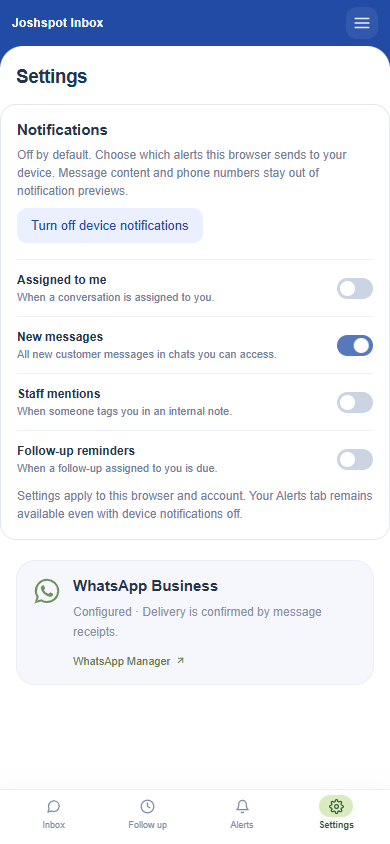
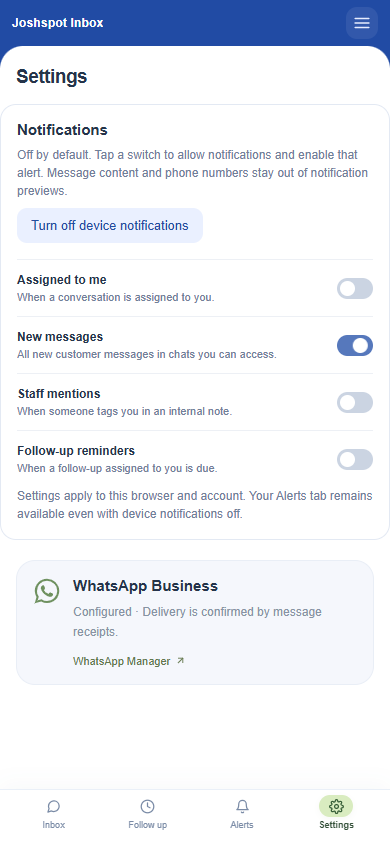
added joshspot inboxe

Changed region(s): [[0.0615, 0.154, 0.9538, 0.2464], [0.8923, 0.4005, 0.9538, 0.4313]]

diff --git a/components/inbox/InboxWorkspace.js b/components/inbox/InboxWorkspace.js
@@ -100,7 +100,7 @@ export default function InboxWorkspace({ session }) {
       <div className={s.railProfile} title={`${session.actor.name} · ${session.actor.role}`}>{initials(session.actor.name)}</div>
       <button className={s.connection} title={session.provider.configured ? 'WhatsApp configured' : 'WhatsApp not connected'} aria-label="Connection settings" onClick={() => { setView('settings'); setSelected(null); }}><i className={session.provider.configured ? s.ready : ''} /></button>
     </aside>
-    {view === 'notifications' ? <Notifications data={notifications} onMore={() => notificationLoad(notifications.next)} onOpen={(target) => { setTargetNote(target.message); setSelected(target.conversation); setView('inbox'); notificationLoad(); }} /> : view === 'templates' ? <section className={s.catalogue}><Templates session={session} /></section> : view === 'team' ? <section className={s.catalogue}><header className={s.sectionHeading}><h1>Team</h1><span>{session.staff.length} representatives</span></header><div className={s.teamGrid}>{session.staff.map((person) => <article key={person._id} className={s.teamPerson}><span className={s.avatar}>{initials(person.name)}</span><div><b>{person.name}</b><small>{person.role}{person._id === session.actor.id ? ' · You' : ''}</small></div></article>)}</div></section> : view === 'settings' ? <section className={s.catalogue}><header className={s.sectionHeading}><h1>Settings</h1></header><NotificationSettings /><div className={s.connectionCard}><FaWhatsapp /><div><h2>WhatsApp Business</h2><p>{session.provider.configured ? 'Configured · Delivery is confirmed by message receipts.' : 'Not connected'}</p>{!session.provider.configured && <p>{session.actor.admin ? 'Add the Meta credentials to your backend environment, then configure your webhook.' : 'Ask your administrator to connect WhatsApp.'}</p>}{session.actor.admin && session.provider.missing?.length > 0 && <ul>{session.provider.missing.map((name) => <li key={name}>{name}</li>)}</ul>}{session.actor.admin && <a href="https://business.facebook.com/wa/manage/home/" target="_blank" rel="noreferrer">WhatsApp Manager <FiArrowUpRight /></a>}{session.provider.failedJobs > 0 && <div className={s.error}>{session.provider.failedJobs} webhooks need attention.<button onClick={async () => { try { await inboxApi('/webhooks/retry', { method: 'POST', body: {} }); setNotice('Webhooks queued for another attempt'); } catch (err) { setError(err.message); } }}><FiRefreshCw />Retry processing</button></div>}{error && <div className={s.error} role="alert">{error}</div>}</div></div></section> : <>
+    {view === 'notifications' ? <Notifications data={notifications} onMore={() => notificationLoad(notifications.next)} onOpen={(target) => { setTargetNote(target.message); setSelected(target.conversation); setView('inbox'); notificationLoad(); }} /> : view === 'templates' ? <section className={s.catalogue}><Templates session={session} /></section> : view === 'team' ? <section className={s.catalogue}><header className={s.sectionHeading}><h1>Team</h1><span>{session.staff.length} representatives</span></header><div className={s.teamGrid}>{session.staff.map((person) => <article key={person._id} className={s.teamPerson}><span className={s.avatar}>{initials(person.name)}</span><div><b>{person.name}</b><small>{person.role}{person._id === session.actor.id ? ' · You' : ''}</small></div></article>)}</div></section> : view === 'settings' ? <section className={s.catalogue}><header className={s.sectionHeading}><h1>Settings</h1></header><NotificationSettings />{session.actor.admin&&<div className={s.connectionCard}><FaWhatsapp /><div><h2>WhatsApp Business</h2><p>{session.provider.configured ? 'Configured · Delivery is confirmed by message receipts.' : 'Not connected'}</p>{!session.provider.configured && <p>{session.actor.admin ? 'Add the Meta credentials to your backend environment, then configure your webhook.' : 'Ask your administrator to connect WhatsApp.'}</p>}{session.actor.admin && session.provider.missing?.length > 0 && <ul>{session.provider.missing.map((name) => <li key={name}>{name}</li>)}</ul>}{session.actor.admin && <a href="https://business.facebook.com/wa/manage/home/" target="_blank" rel="noreferrer">WhatsApp Manager <FiArrowUpRight /></a>}{session.provider.failedJobs > 0 && <div className={s.error}>{session.provider.failedJobs} webhooks need attention.<button onClick={async () => { try { await inboxApi('/webhooks/retry', { method: 'POST', body: {} }); setNotice('Webhooks queued for another attempt'); } catch (err) { setError(err.message); } }}><FiRefreshCw />Retry processing</button></div>}{error && <div className={s.error} role="alert">{error}</div>}</div></div>}</section> : <>
       <section className={s.listPanel} aria-label="Conversations">
         <header className={s.listHeader}>{view === 'contacts' ? <h1>Contacts</h1> : <div className={s.folderTabs} aria-label="Conversation views"><button disabled={!session.actor.admin && session.actor.role==='CSS'} aria-pressed={view !== 'mine'} onClick={() => navigate('inbox')}>{status ? status.replace('_', ' ') : view === 'mine' || view === 'inbox' ? (agent || Object.values(filters).some(Boolean) ? 'Filtered' : !session.actor.admin && session.actor.role==='CSS' ? 'Assigned to me' : 'All') : views.find(([key]) => key === view)?.[1] || 'All'}</button><span aria-hidden="true" /><button aria-pressed={view === 'mine'} onClick={() => navigate('mine')}>Mine</button></div>}<button className={s.iconButton} title="New conversation" aria-label="New conversation" onClick={() => setNewContact(true)}><FiPlus /></button></header>
         <div className={s.searchControls}><div className={s.search}><FiSearch /><input aria-label="Search conversations" placeholder="Search conversations…" value={query} onChange={(event) => setQuery(event.target.value)} />{query && <button className={`${s.iconButton} ${s.searchClear}`} aria-label="Clear search" onClick={() => setQuery('')}><FiX /></button>}</div><button className={`${s.iconButton} ${s.searchFilter}`} aria-label="Filter conversations" onClick={() => setMobileFilters(true)}><FiSliders />{(agent || status || Object.values(filters).some(Boolean) || !['inbox','contacts','mine'].includes(view)) && <i />}</button></div>

diff --git a/components/inbox/NotificationSettings.js b/components/inbox/NotificationSettings.js
@@ -21,20 +21,20 @@ export default function NotificationSettings(){
  }catch(e){if(active)setError(e.message)}finally{if(active)setBusy(false)}})();
  window.addEventListener('focus',refreshPermission);return()=>{active=false;window.removeEventListener('focus',refreshPermission)};
  },[]);
- const enable=async()=>{
+ const enable=async(key)=>{
   setBusy(true);setError('');try{
    const result=await Notification.requestPermission();setPermission(result);if(result!=='granted')return;
    const registration=await navigator.serviceWorker.register('/inbox-push-sw.js',{scope:'/crm-inbox'});
    await navigator.serviceWorker.ready;
    const bytes=Uint8Array.from(atob(config.publicKey.replace(/-/g,'+').replace(/_/g,'/')),c=>c.charCodeAt(0));
    const sub=await registration.pushManager.getSubscription()||await registration.pushManager.subscribe({userVisibleOnly:true,applicationServerKey:bytes});
-   await inboxApi('/push/subscription',{method:'PUT',body:{subscription:sub.toJSON(),preferences:defaults}});setSubscription(sub);setPreferences(defaults);
+   await inboxApi('/push/subscription',{method:'PUT',body:{subscription:sub.toJSON(),preferences:{...defaults,...(typeof key==='string'?{[key]:true}:{})}}});setSubscription(sub);setPreferences({...defaults,...(typeof key==='string'?{[key]:true}:{})});
   }catch(e){setError(e.message)}finally{setBusy(false)}
  };
- const toggle=async(key)=>{setBusy(true);setError('');const next={...preferences,[key]:!preferences[key]};try{await inboxApi('/push/subscription',{method:'PUT',body:{subscription:subscription.toJSON(),preferences:next}});setPreferences(next)}catch(e){setError(e.message)}finally{setBusy(false)}};
- return <div className={s.notificationSettings}><h2>Notifications</h2><p>Off by default. Choose which alerts this browser sends to your device. Message content and phone numbers stay out of notification previews.</p>
+ const toggle=async(key)=>{if(!subscription||permission!=='granted')return enable(key);setBusy(true);setError('');const next={...preferences,[key]:!preferences[key]};try{await inboxApi('/push/subscription',{method:'PUT',body:{subscription:subscription.toJSON(),preferences:next}});setPreferences(next)}catch(e){setError(e.message)}finally{setBusy(false)}};
+ return <div className={s.notificationSettings}><h2>Notifications</h2><p>Off by default. Tap a switch to allow notifications and enable that alert. Message content and phone numbers stay out of notification previews.</p>
  {error&&<p role="alert" className={s.error}>{error}</p>}
- {!available?<p>Push notifications are unavailable in this browser. On iPhone or iPad, add the site to your Home Screen and open it there.</p>:permission==='denied'?<p>Notifications are blocked. Allow them in your browser or device settings, then return here.</p>:!config?.configured&&!busy?<p>Device notifications are awaiting administrator setup.</p>:<button type="button" className={s.pushPermission} disabled={busy||!config?.configured} onClick={subscription&&permission==='granted'?async()=>{setBusy(true);try{await disableInboxPush();setSubscription(null);setPreferences(defaults)}catch(e){setError(e.message)}finally{setBusy(false)}}:enable}>{busy?'Please wait…':subscription&&permission==='granted'?'Turn off device notifications':'Enable device notifications'}</button>}
- <div>{options.map(([key,label,description])=><label key={key} className={s.notificationOption}><span><strong>{label}</strong><small>{description}</small></span><input type="checkbox" role="switch" aria-label={label} checked={preferences[key]} disabled={busy||permission!=='granted'||!subscription||!config?.configured} onChange={()=>toggle(key)}/></label>)}</div>
+ {!available?<p>Push notifications are unavailable in this browser. On iPhone or iPad, add the site to your Home Screen and open it there.</p>:permission==='denied'?<p>Notifications are blocked. Allow them in your browser or device settings, then return here.</p>:!config?.configured&&!busy?<p>Notifications are not available yet: the backend needs the notification update and signing keys. Ask your administrator to complete deployment.</p>:<button type="button" className={s.pushPermission} disabled={busy||!config?.configured} onClick={subscription&&permission==='granted'?async()=>{setBusy(true);try{await disableInboxPush();setSubscription(null);setPreferences(defaults)}catch(e){setError(e.message)}finally{setBusy(false)}}:enable}>{busy?'Please wait…':subscription&&permission==='granted'?'Turn off device notifications':'Enable device notifications'}</button>}
+ <div>{options.map(([key,label,description])=><label key={key} className={s.notificationOption}><span><strong>{label}</strong><small>{description}</small></span><input type="checkbox" role="switch" aria-label={label} checked={preferences[key]} disabled={busy||!available||permission==='denied'||!config?.configured} onChange={()=>toggle(key)}/></label>)}</div>
  <p>Settings apply to this browser and account. Your Alerts tab remains available even with device notifications off.</p></div>;
 }

diff --git a/components/admin/AIAgent.js b/components/admin/AIAgent.js
@@ -7,7 +7,7 @@ const kinds={'Services':'service','Plans':'plan','Conversation Flows':'workflow'
 const types=['greeting','advertising','recommendation','requirements','ready_to_pay','request_invoice','request_account_number','payment_question','payment_sent','receipt_sent','payment_problem','human','knowledge','unknown'];
 const common=[['title','Title'],['key','Unique key'],['category','Category'],['priority','Priority / display order','number'],['enabled','Enabled','checkbox'],['archived','Archived','checkbox']];
 const fields={
- service:[['description','Description','textarea'],['platforms','Platforms (comma separated)','array'],['serviceType','Service type',['account_setup','ads_management']],['price','Price (NGN)','number'],['currency','Currency',['NGN']],['requirements','Secure onboarding instructions','textarea'],['workflow','Workflow'],['paymentEnabled','Allow invoices','checkbox'],['allowCustomBudget','Allow custom budgets','checkbox'],['minBudget','Minimum custom budget','number'],['maxBudget','Maximum custom budget','number']],
+ service:[['checkoutUrl','Course page URL'],['description','Description','textarea'],['platforms','Platforms (comma separated)','array'],['serviceType','Service type',['account_setup','ads_management','course']],['price','Price (NGN)','number'],['currency','Currency',['NGN']],['requirements','Secure onboarding instructions','textarea'],['workflow','Workflow'],['paymentEnabled','Allow invoices','checkbox'],['allowCustomBudget','Allow custom budgets','checkbox'],['minBudget','Minimum custom budget','number'],['maxBudget','Maximum custom budget','number']],
  plan:[['duration','Days','number'],['amount','Amount (NGN)','number'],['currency','Currency',['NGN']],['platforms','Platforms (comma separated)','array'],['service','Service key'],['description','Description','textarea']],
  knowledge:[['purpose','Purpose','textarea'],['intents','Customer intents (comma separated)'],['triggerExamples','Example customer messages','textarea'],['keywords','Keywords / phrases'],['semanticTrigger','Meaning to match','textarea'],['whenToUse','When to use','textarea'],['whenNotToUse','When not to use','textarea'],['requiredState','Required state','json'],['excludedState','Excluded state','json'],['preferredResponse','Preferred response','textarea'],['responseMode','Response mode',['STRICT','GUIDED','KNOWLEDGE']],['allowContext','Allow contextual wording','checkbox'],['facts','Approved facts','textarea'],['requiredQuestion','Required next question','textarea'],['nextObjective','Next objective',['ANSWER','DISCOVER_SERVICE','GET_SERVICE_TYPE','GET_PLATFORM','GET_BUDGET_DURATION','GET_BUDGET','GET_DURATION','SELECT_PLAN','CONFIRM_PROCEED','OFFER_PAYMENT_DETAILS','CHECK_PAYMENT','HANDOFF','COMPLETE']],['stateUpdates','State updates','json'],['paymentBehaviour','Payment-stage guidance','textarea'],['forceHandoff','Require human handoff','checkbox'],['handoffReason','Reason code'],['notes','Internal guidance','textarea'],['displayOrder','Display order','number']],
  tone:[['customer','Customer example','textarea'],['response','Preferred Joshspot reply','textarea']],
